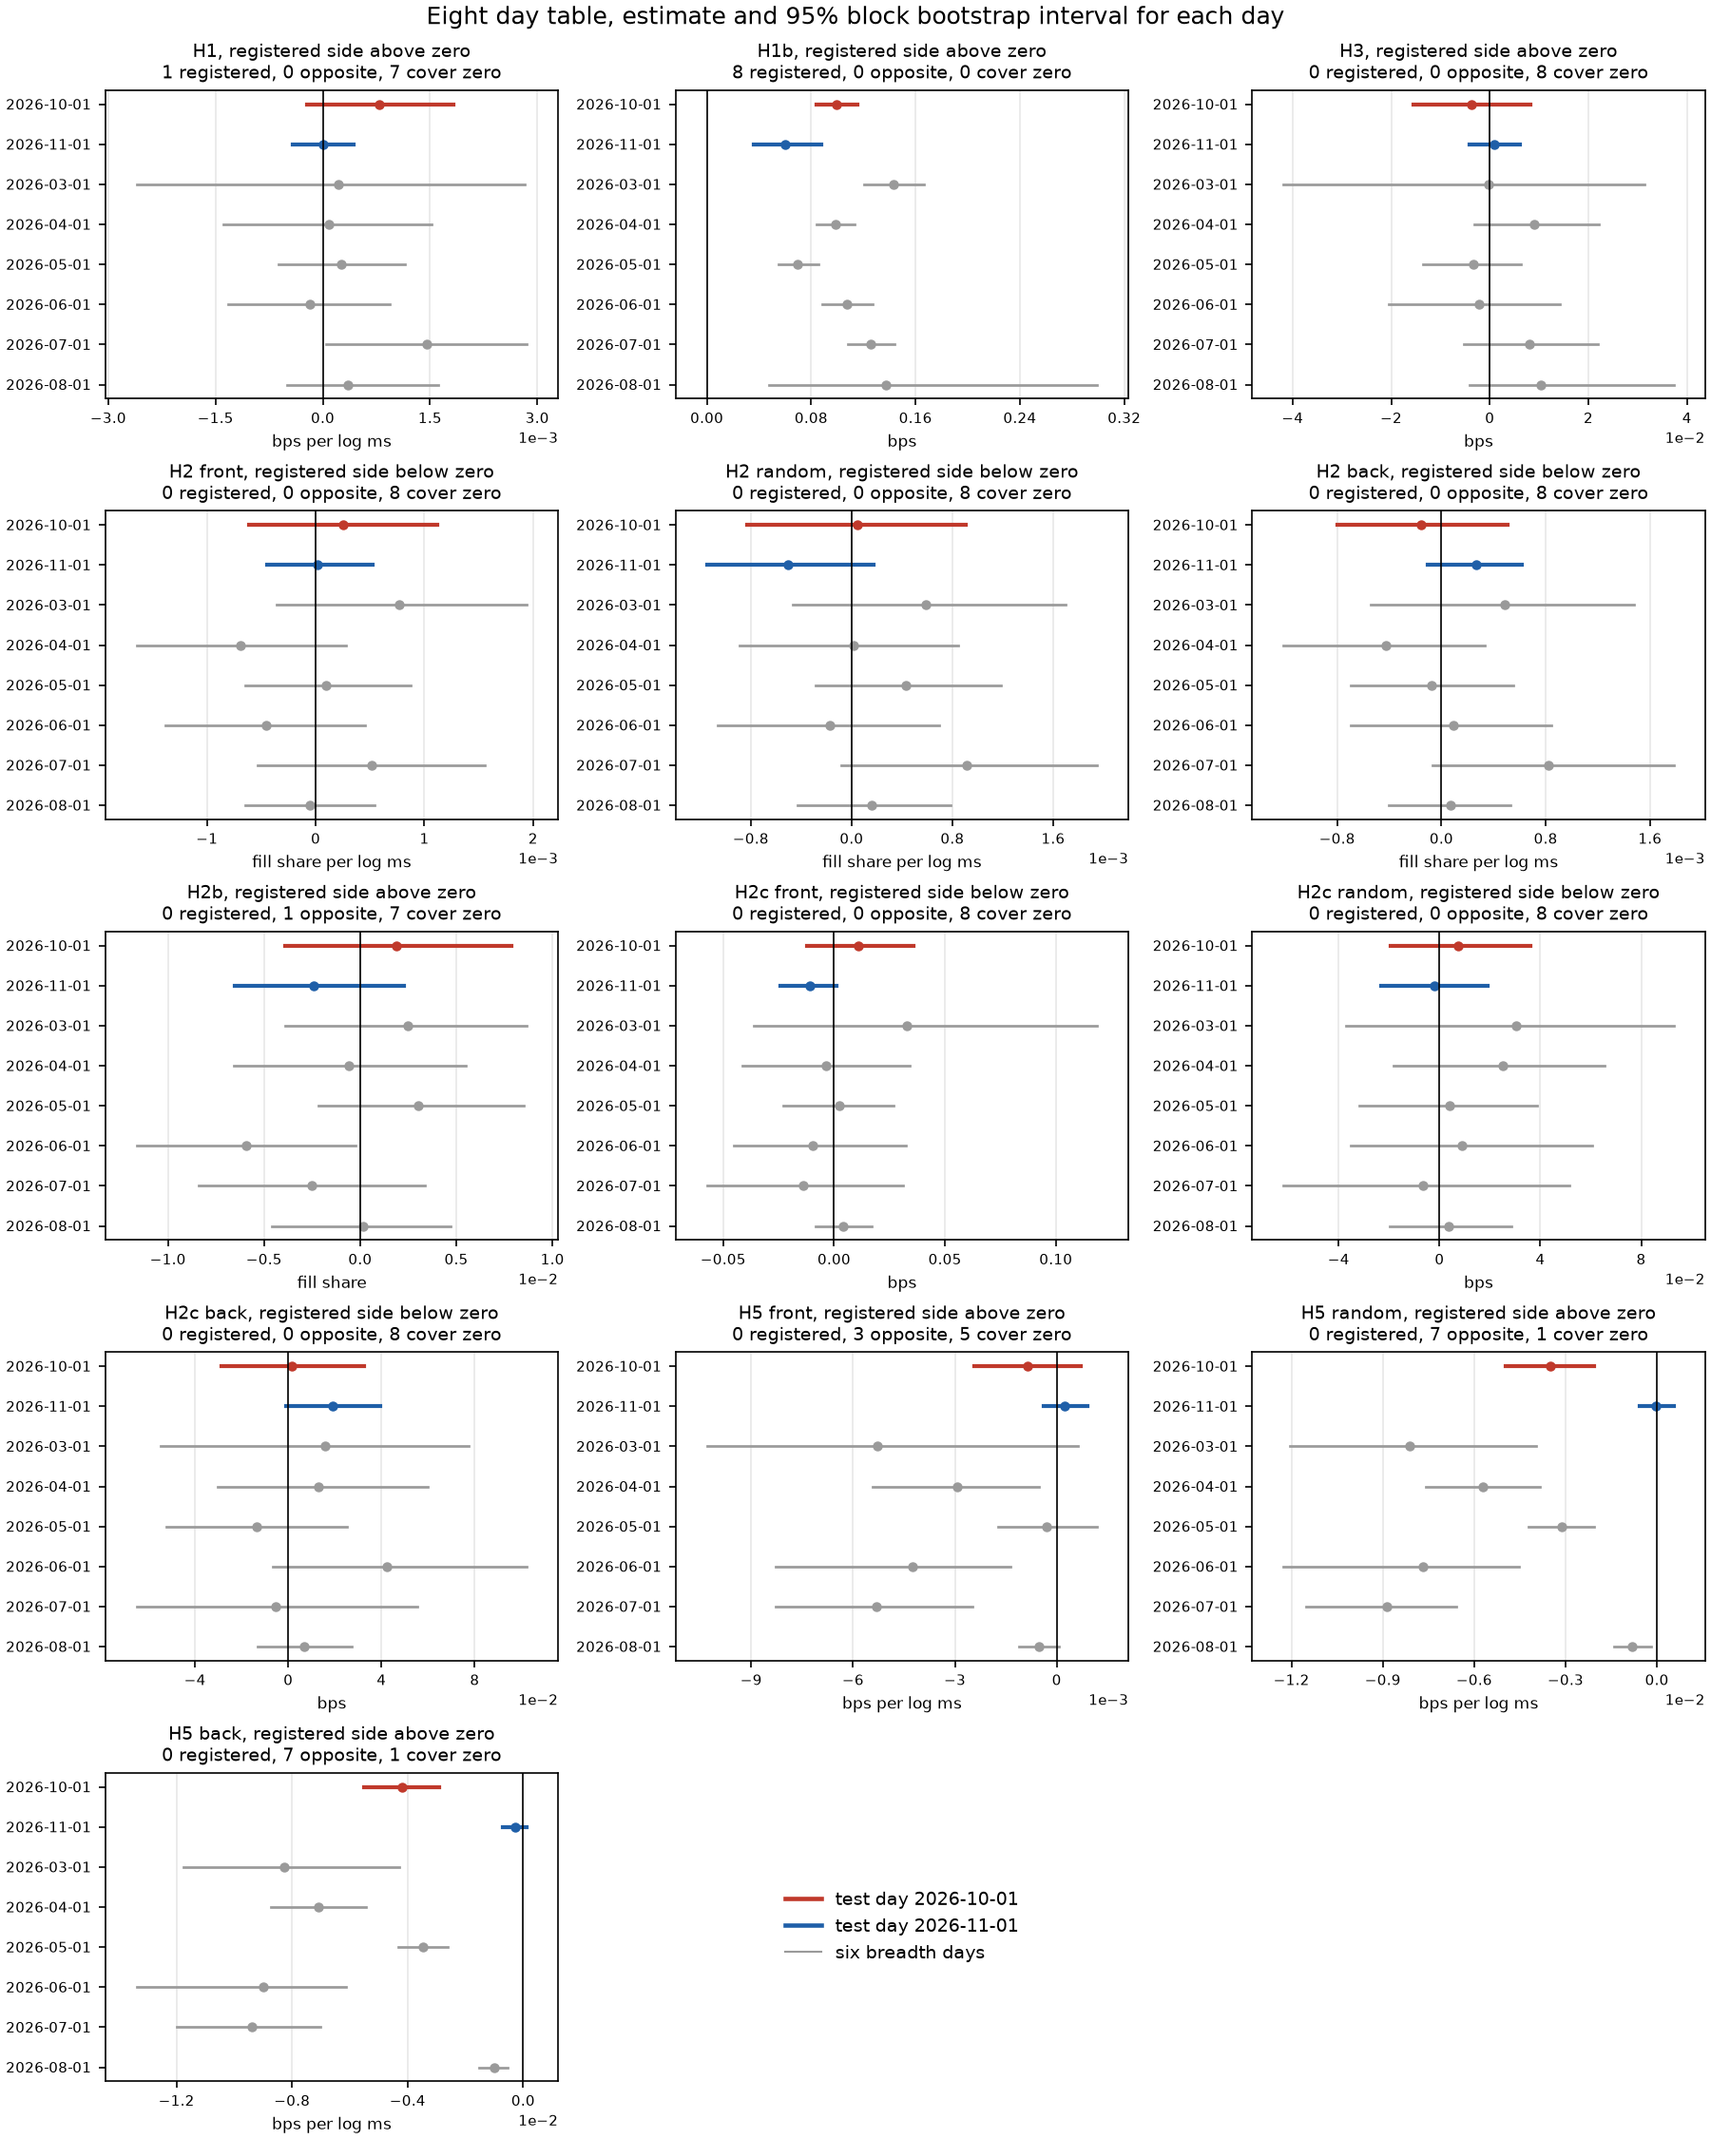
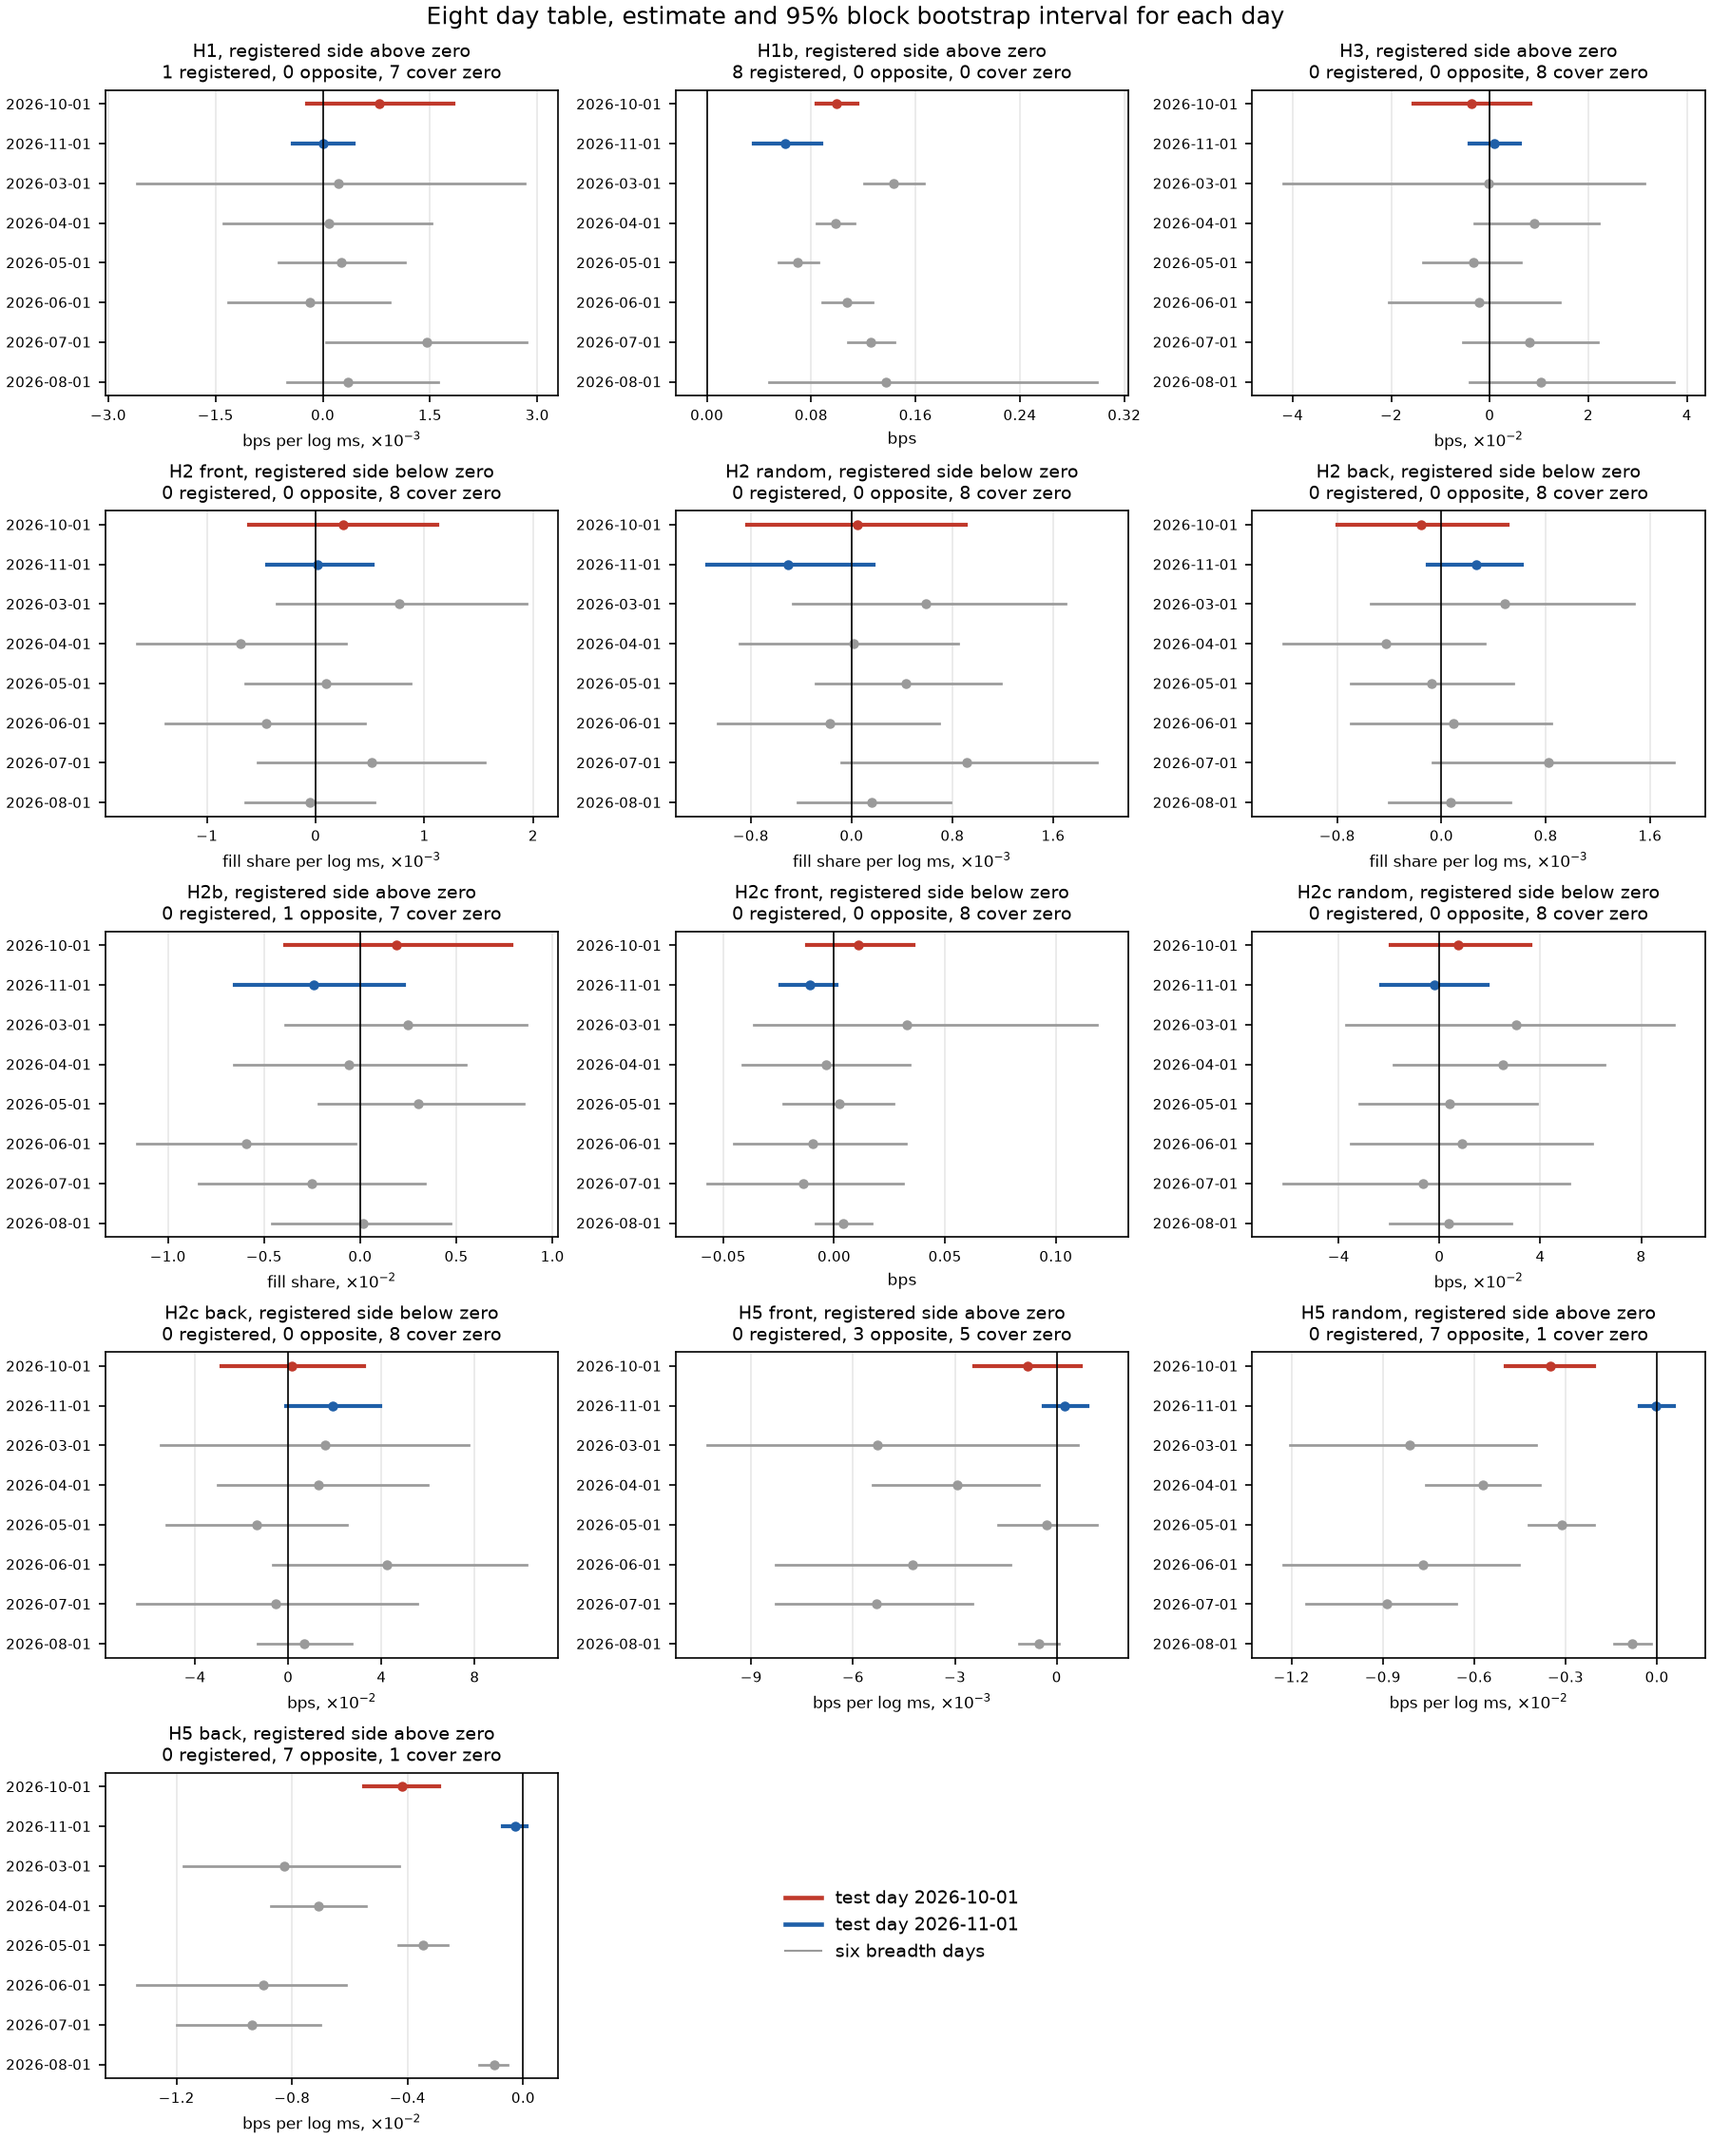
Figure 3 shows its scale on the axis

diff --git a/01-signal-to-fill/src/s2f/figures.py b/01-signal-to-fill/src/s2f/figures.py
@@ -14,6 +14,7 @@ metadata carries no software version or date, so the same results give the same 
   fig5_placebo_calibration.png  the 200 H2 placebo slopes on the dev day, with the registered draw marked
 """
 import json
+import re
 
 import numpy as np
 import matplotlib
@@ -140,6 +141,17 @@ def fig3_eight_day_table():
         ax.axis("off")
     axes[len(names)].legend(handles=_legend_handles(), loc="center", fontsize=9, frameon=False)
     fig.suptitle("Eight day table, estimate and 95% block bootstrap interval for each day", fontsize=12)
+    # the scale goes into the axis label instead of the small offset text in the corner,
+    # which is easy to miss once GitHub shrinks the image. Tick values are unchanged.
+    fig.canvas.draw()
+    for ax, name in zip(axes, names):
+        offset = ax.xaxis.get_major_formatter().get_offset()
+        m = re.fullmatch(r"1e([\u2212-]?\d+)", offset)
+        assert offset == "" or m, f"unexpected axis offset {offset!r} on {name}"
+        ax.xaxis.get_offset_text().set_visible(False)
+        if m:
+            k = int(m.group(1).replace("\u2212", "-"))
+            ax.set_xlabel(f"{units[name.split()[0]]}, $\\times 10^{{{k}}}$", fontsize=8)
     _save(fig, "fig3_eight_day_table.png")
 
 

diff --git a/01-signal-to-fill/INTEGRITY_LOG.md b/01-signal-to-fill/INTEGRITY_LOG.md
@@ -378,7 +378,7 @@ Someone who had not worked on the report read the report, both READMEs, the note
 - The report stays marked draft until one last read before release.
 - A heading in the Deviations of the preregistration was edited after it was committed. Commit 5483ec5 changed "2026-11-18 evening" to "2026-11-18, later in the afternoon", six minutes after 59a5cee first committed it. That was before any test day and only the time label changed, but it is an edit to registered text outside a new dated entry. I leave it as it is rather than edit registered text again, and note it here.
 - Whether the H1 and H2 files written by the cut first start on 2026-10-01 were opened before the rerun. I can't tell from the record. The rerun was byte identical, so nothing could have changed either way.
-- Figure 3 uses matplotlib's offset notation in a corner of most panels, which is easy to miss on a scaled image. Not changed.
+- Figure 3 uses matplotlib's offset notation in a corner of most panels, which is easy to miss on a scaled image. Not changed. *(Fixed 2026-11-21 night, see that entry.)*
 - The checker's own tests still need to be run from the repo root.
 - Test and breadth day results have not been regenerated to check them. Only the dev day has a dry run.
 
@@ -391,3 +391,8 @@ Someone who had not worked on the report read the report, both READMEs, the note
 - **Closed, from the 11-18 night entry.** The 11-16 entry's claim that the tables were read from the PDF. The PDF I have now is version 3, the same text as the web page the notes cite, and Table 1, Table 2 and Figure 1 on its pages match every number in that entry. Which copy I read on 11-16 isn't in my files, so that part can't be shown, and I don't claim it.
 - **Checked.** The version and every page reference in the library note against the PDF. The literature review row now names the version and says when it was read again.
 - No hypothesis, test or result changed. I did this myself, with no second reader.
+
+## 2026-11-21 (Sat, night) · Figure 3 scale on the axis
+- **Found and fixed.** Figure 3 showed its scale only as small offset text in the corner of each panel. The scale now sits in the axis label (for example "bps per log ms, ×10⁻³") and the corner text is gone. Only the drawing changed. The tick values, points and intervals are the same, and the script still reads nothing but the results files.
+- **Checked.** I ran the figure script again. Figures 1, 2, 4 and 5 came out byte identical to the committed files, and Figure 3 comes out the same on a second run. I looked at the new Figure 3 at full size, and no label is clipped or sits on another.
+

diff --git a/01-signal-to-fill/LAB_NOTEBOOK.md b/01-signal-to-fill/LAB_NOTEBOOK.md
@@ -612,3 +612,9 @@ Nothing new was run on any day today. No test, spec, threshold or day was added,
 - **Limits and gaps.**
   - *Still not checked:* their interval method. I take the bars in Figure 1 by eye only.
   - *Missing:* the PDF has no appendix, and I haven't looked for a supplement.
+
+## 2026-11-21 (Sat, night) · Figure 3 shows its scale on the axis
+- Figure 3 had its scale as small text in the corner of most panels, which is easy to miss once the image is shrunk. The scale is now part of each axis label, so a panel reads "bps per log ms, ×10⁻³" where it used to say "1e−3" in the corner. Same points, same intervals, same tick values.
+- The other four figures came out byte identical when I ran the script again.
+- **Limits and gaps.**
+  - *Not changed:* Figures 4 and 5 still use the corner offset text. Only Figure 3 was raised as hard to read.
